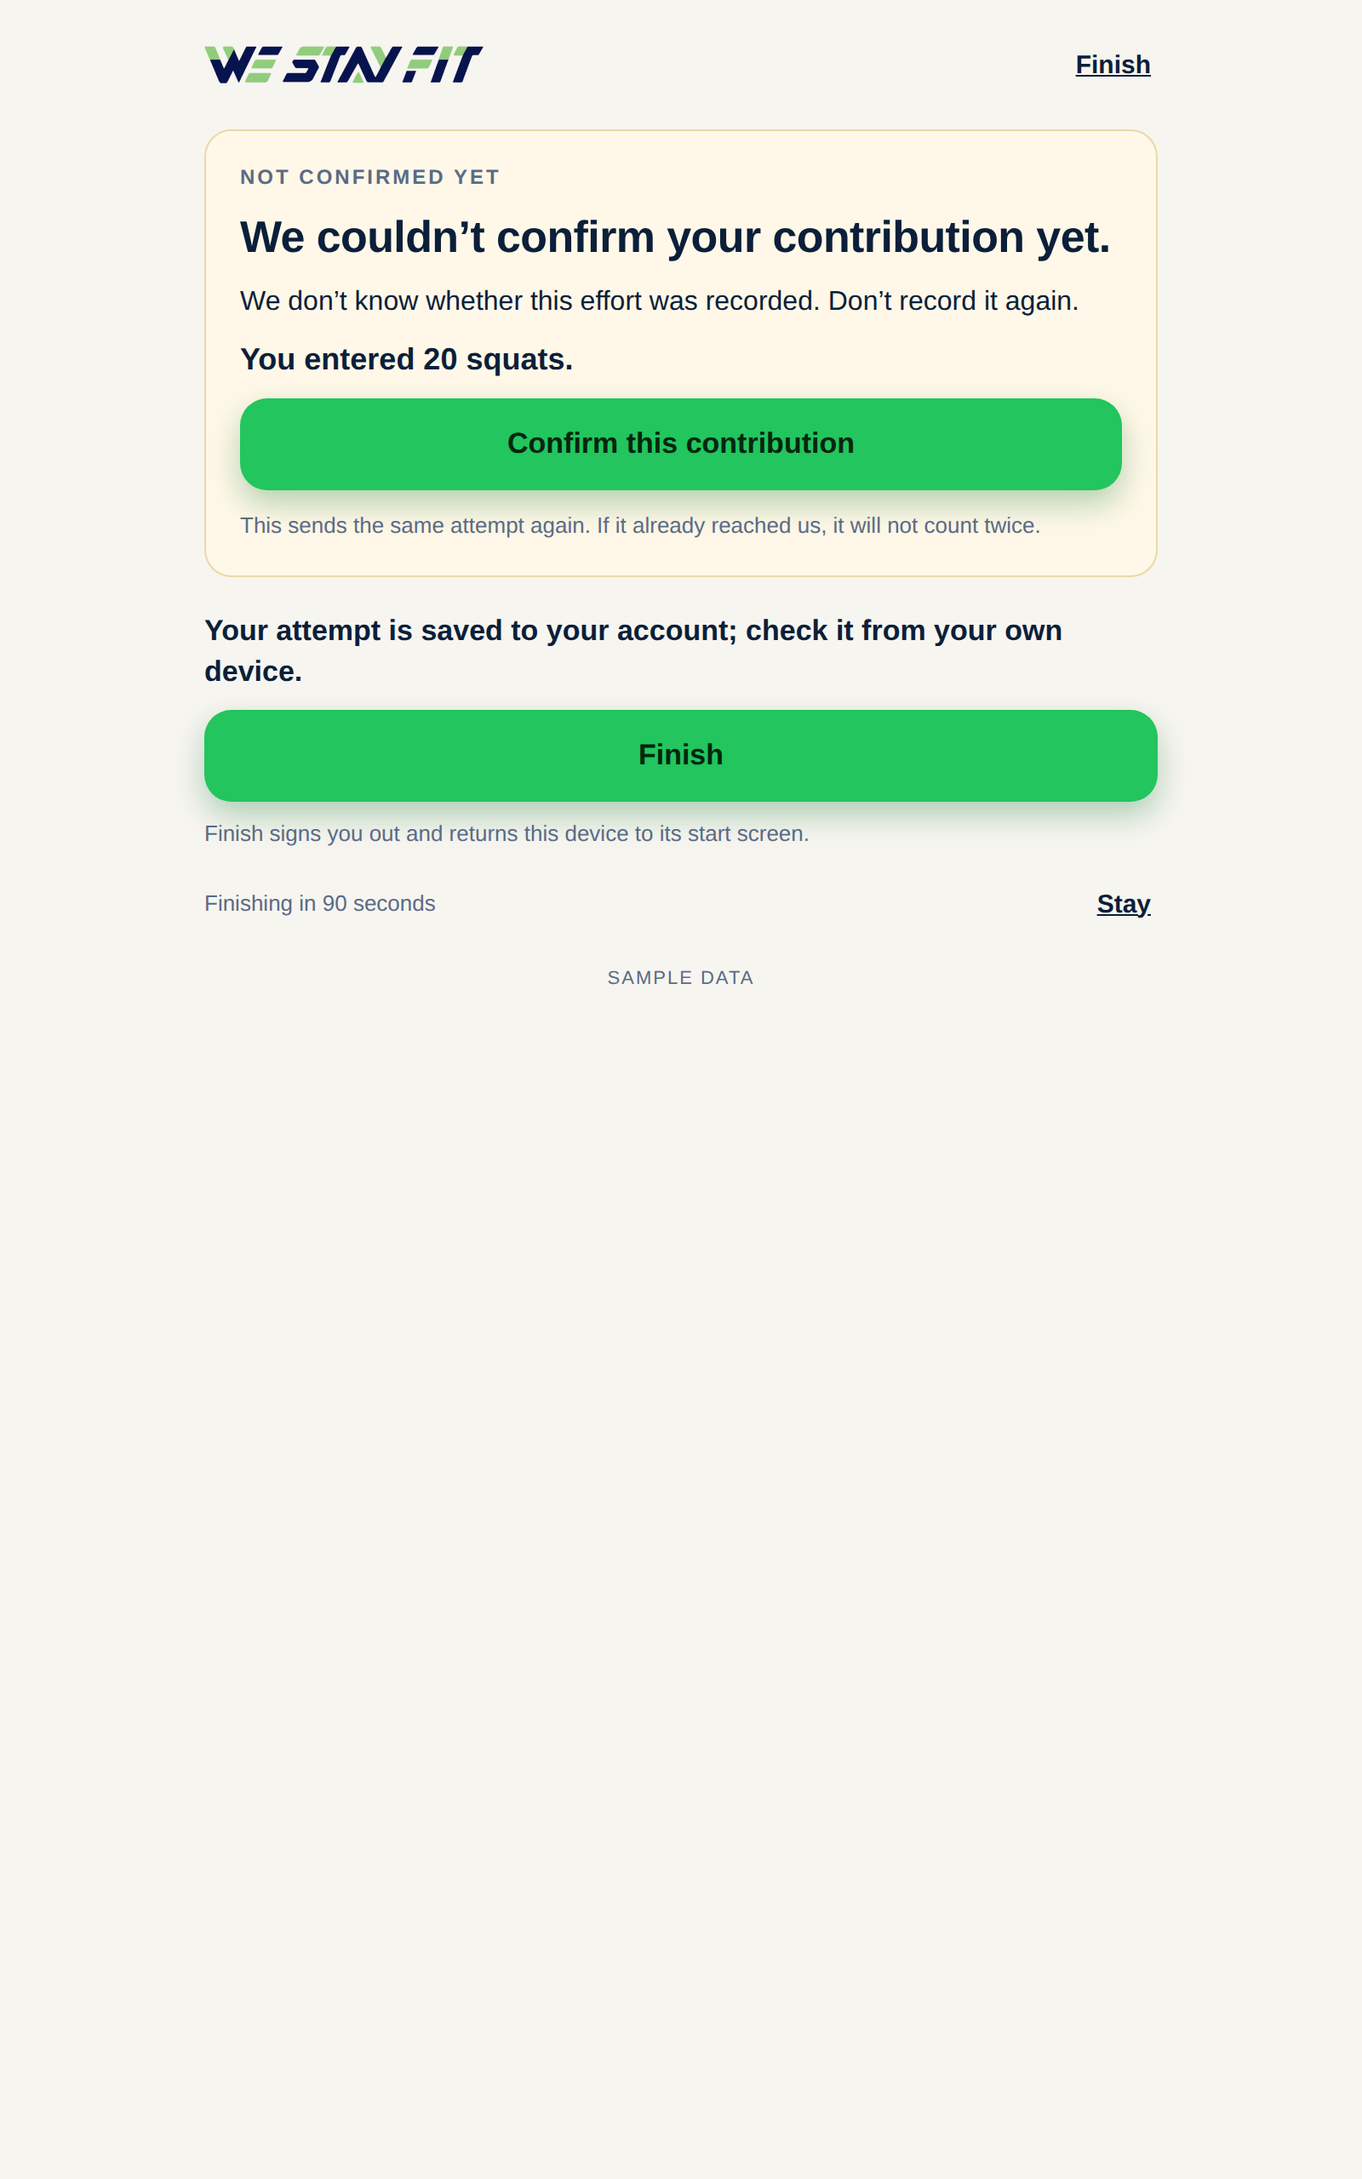
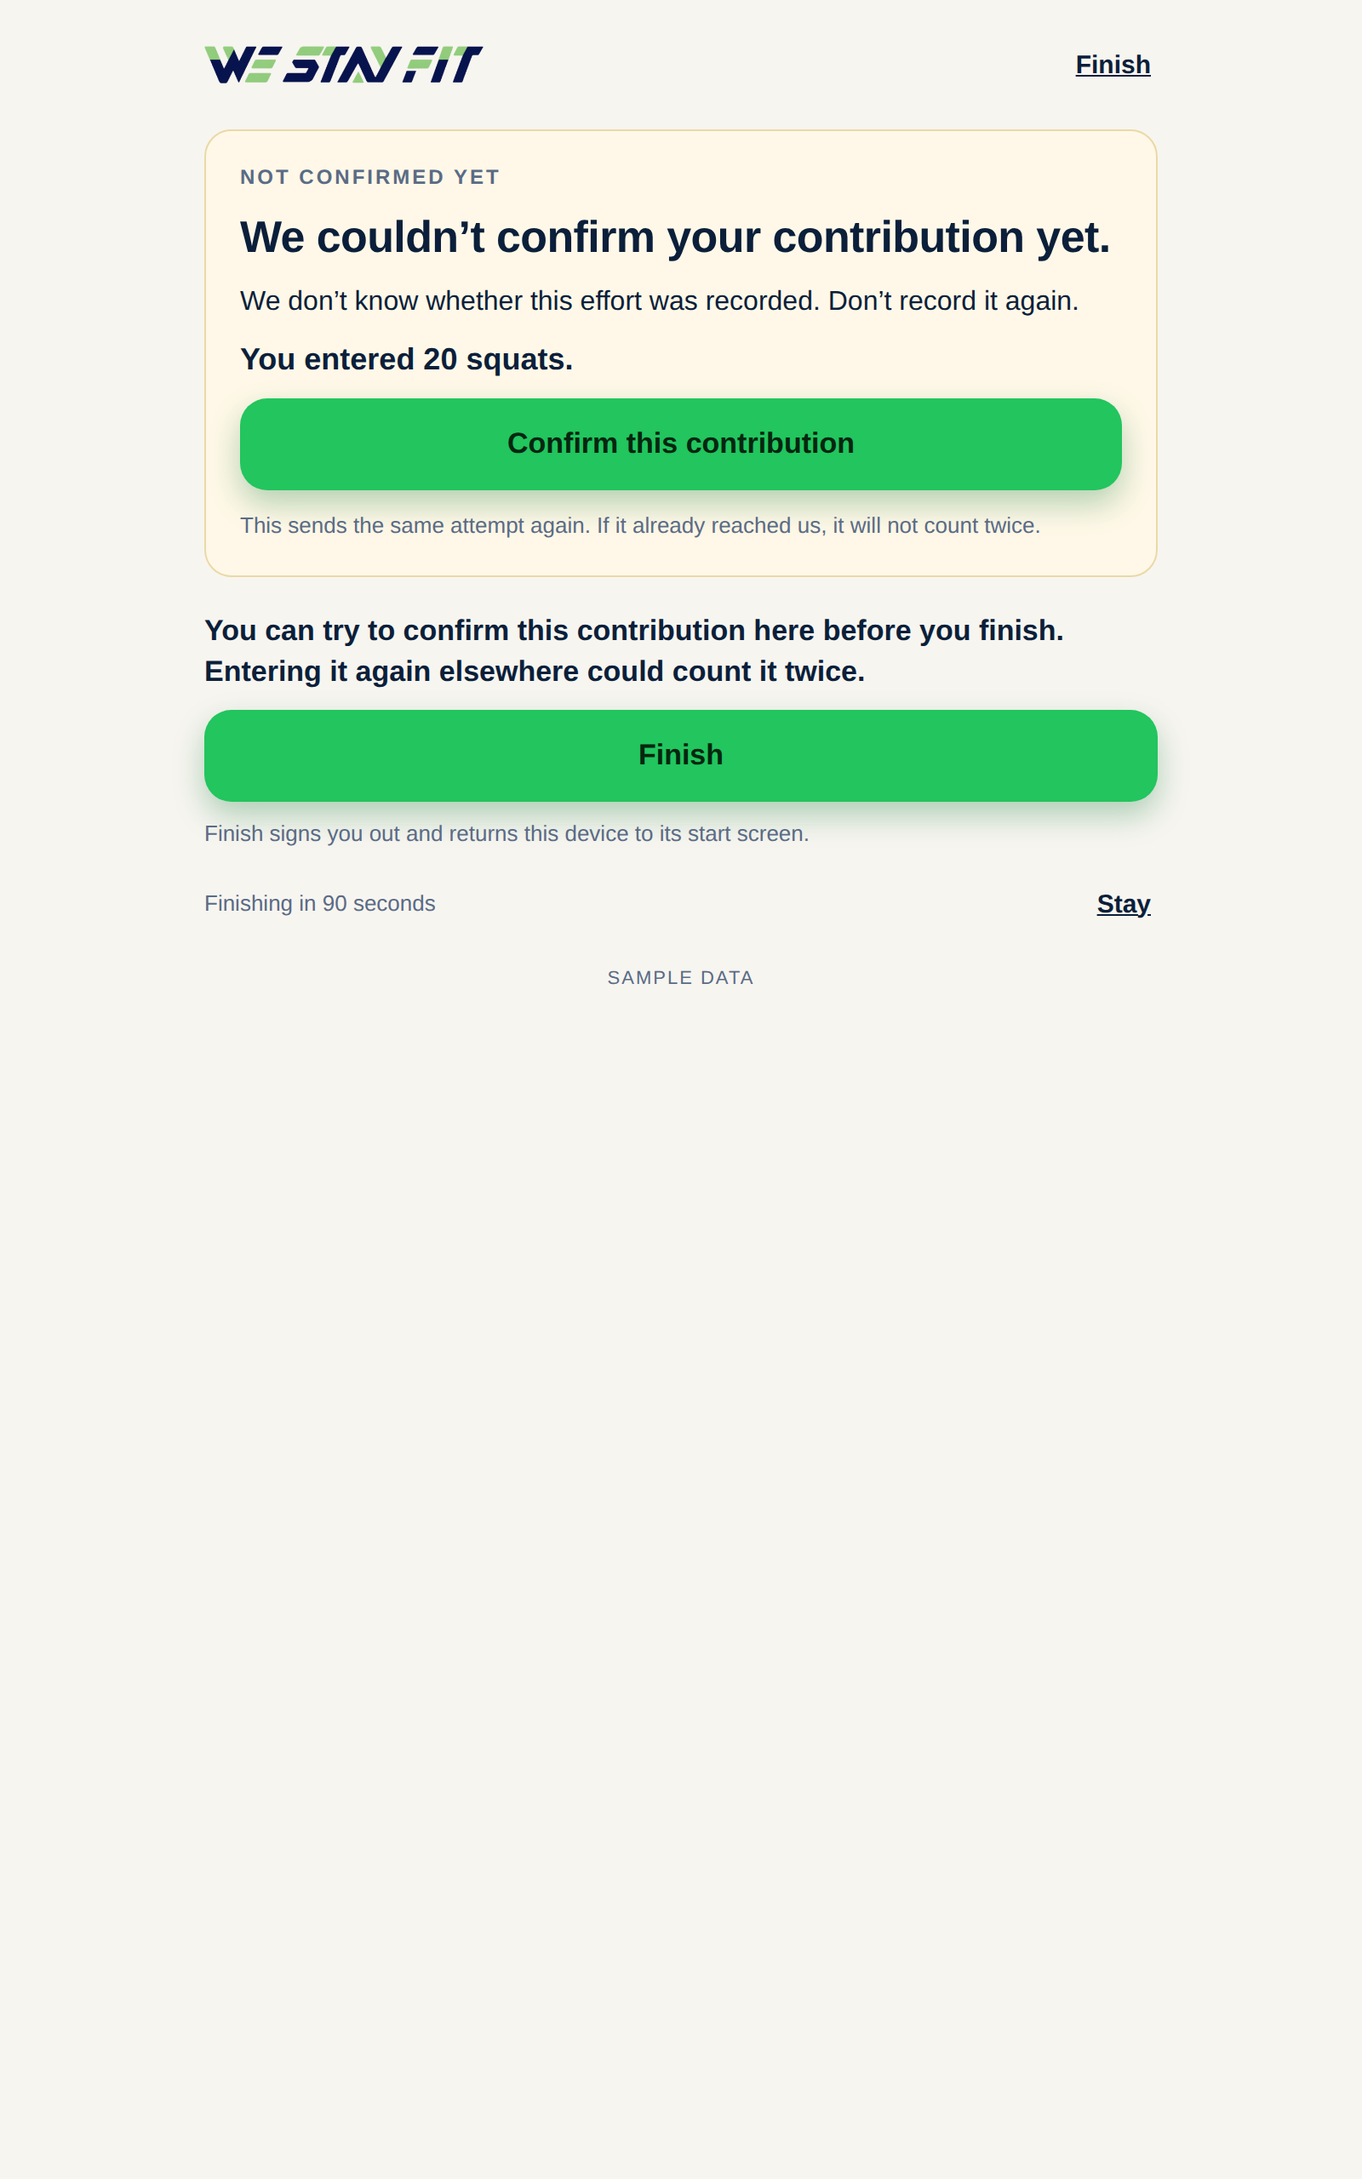
fix(westayfit): the unresolved kiosk notice stops promising portability it cannot keep
Copy-only follow-up to 50806fa, per the Director's review of W3's storage
finding (#427 5787211535, W3 5787080285).

The notice read "Your attempt is saved to your account; check it from your own
device." -- as though the attempt travels with the account. It does not. The
record that makes the SAME attempt replayable lives in localStorage on the
browser that made it (src/pendingContribution.ts), keyed to that uid; another
device signing into the same account finds no such record. A member's own credit
total is durable and readable elsewhere, but a total is not this attempt's
outcome: somebody who does not already know what it was before cannot infer
whether this one landed.

It now reads:

  You can try to confirm this contribution here before you finish. Entering it
  again elsewhere could count it twice.

It points at the only place the recovery actually exists -- this screen, before
Finish -- and names the real cost of the alternative.

COPY ONLY. No forced retry, no extra send, no portability promise, and no
backend, storage, auth or retention change. "Confirm this contribution" is still
offered, Finish is still available and reachable, and the account-scoped pending
record is still kept rather than cleared on the way out; the test that asserts it
survives is untouched. What changed is the literal expectation, one test
description that carried the same promise, and a new assertion that the notice
names no other device.
[…]

Changed region(s): [[0.1562, 0.2812, 0.7812, 0.3125]]

diff --git a/apps/westayfit/tests-e2e/sprint-w1b-kiosk-confinement.spec.ts b/apps/westayfit/tests-e2e/sprint-w1b-kiosk-confinement.spec.ts
@@ -347,6 +347,48 @@ for (const klass of [
   });
 }
 
+/**
+ * The unresolved notice is the longest string on any kiosk screen, and the
+ * short phone is the class where wrapping fails first. Captured there for that
+ * reason and no other -- the state itself is asserted in full at the tablet.
+ */
+test.describe('kiosk confinement · the unresolved notice at the short class', () => {
+  test.use({ viewport: SHORT_PHONE, deviceScaleFactor: 2 });
+
+  test('the notice wraps readably and Finish is still reachable under it', async ({ page }) => {
+    test.setTimeout(300_000);
+    const fx = await seedKiosk('g');
+    await walkUpToEntry(page, fx);
+    await page.getByTestId('wsf-contribute-entry').fill(String(ADDED));
+    await page.getByTestId('wsf-contribute-review').click();
+    await expect(page.getByTestId('wsf-contribute-review-screen')).toBeVisible();
+    await page.route('**/wsfContribute', (route: Route) => route.abort('failed'));
+    await page.getByTestId('wsf-contribute-submit').click();
+    await expect(page.getByTestId('wsf-contribute-pending')).toBeVisible({ timeout: 40_000 });
+
+    await page.getByTestId('wsf-kiosk-finish').scrollIntoViewIfNeeded();
+    await page.waitForTimeout(600);
+    await saveFrame(page, frame('kiosk-unresolved-short-phone-390x640.png'));
+
+    // Readable rather than clipped: the notice takes whole lines inside the
+    // screen's own width, and nothing overflows it sideways.
+    const box = await page.getByTestId('wsf-kiosk-unresolved-note').boundingBox();
+    expect(box, 'the notice has a box').not.toBeNull();
+    expect(box!.width).toBeLessThanOrEqual(SHORT_PHONE.width);
+    const overflow = await page.evaluate(
+      () => document.documentElement.scrollWidth > window.innerWidth + 1
+    );
+    expect(overflow, 'no sideways scroll at the short class').toBe(false);
+
+    // And the way out is still under it.
+    await expect(page.getByTestId('wsf-kiosk-finish')).toBeVisible();
+    await expect(page.getByTestId('wsf-kiosk-finish')).toBeEnabled();
+    await expectNoMemberNavigation(page);
+    await expectFinishUsable(page);
+    await page.unroute('**/wsfContribute');
+  });
+});
+
 test.describe('kiosk confinement · the states a correction could quietly break', () => {
   test.use({ viewport: TABLET, deviceScaleFactor: 2 });
 
@@ -368,7 +410,7 @@ test.describe('kiosk confinement · the states a correction could quietly break'
     await saveFrame(page, frame('kiosk-unresolved-tablet-800x1280.png'));
     // The state is unchanged by the correction.
     await expect(page.getByTestId('wsf-kiosk-unresolved-note')).toHaveText(
-      'Your attempt is saved to your account; check it from your own device.'
+      'You can try to confirm this contribution here before you finish. Entering it again elsewhere could count it twice.'
     );
     await expect(page.getByTestId('wsf-contribute-reconcile')).toHaveText(
       'Confirm this contribution'

diff --git a/apps/westayfit/src/kioskSession.ts b/apps/westayfit/src/kioskSession.ts
@@ -204,14 +204,27 @@ export type KioskFinishPlan = {
 };
 
 /**
- * The one sentence an unresolved attempt gets.
+ * What an unresolved attempt is told, and why this sentence and not the last one.
  *
- * It states two true things and no more: the attempt is attached to their
- * account, and the place to resolve it is a device that is theirs. It does
- * not say it was recorded — that is exactly the fact nobody has.
+ * IT USED TO PROMISE PORTABILITY IT CANNOT KEEP. The old wording — "Your
+ * attempt is saved to your account; check it from your own device." — reads as
+ * though the attempt travels with the account. It does not. The record that
+ * makes the SAME attempt replayable lives in `localStorage` on the browser that
+ * made it (src/pendingContribution.ts), keyed to that uid; a different device
+ * signing into the same account finds no such record. W3's storage-level probe
+ * confirmed it. A member's own credit total is durable and readable elsewhere,
+ * but a total is not this attempt's outcome: somebody who does not already know
+ * what it was before cannot infer whether this one landed.
+ *
+ * So the sentence now points at the only place the recovery actually exists —
+ * this screen, before Finish — and names the real cost of the alternative. It
+ * still does not say the attempt was recorded, because that is exactly the fact
+ * nobody has, and it does not force a retry: `Confirm this contribution` stays
+ * offered, Finish stays available, and the stored record is still kept rather
+ * than cleared on the way out.
  */
 export const KIOSK_UNRESOLVED_NOTICE =
-  'Your attempt is saved to your account; check it from your own device.';
+  'You can try to confirm this contribution here before you finish. Entering it again elsewhere could count it twice.';
 
 /**
  * WHAT FINISH IS ALLOWED TO ERASE.

diff --git a/apps/westayfit/tests/kiosk-session.test.ts b/apps/westayfit/tests/kiosk-session.test.ts
@@ -159,12 +159,21 @@ describe('what Finish is allowed to erase', () => {
     }
   });
 
-  it('KEEPS an unresolved attempt, and says where it is', () => {
+  it('KEEPS an unresolved attempt, and points at the recovery that actually exists', () => {
     const plan = kioskFinishPlan(GOAL, 'unresolved');
     expect(plan.clearPendingDraft).toBe(false);
-    expect(plan.notice).toBe('Your attempt is saved to your account; check it from your own device.');
+    expect(plan.notice).toBe(
+      'You can try to confirm this contribution here before you finish. Entering it again elsewhere could count it twice.'
+    );
     expect(plan.notice).toBe(KIOSK_UNRESOLVED_NOTICE);
     expect(plan.signOut).toBe(true);
+  });
+
+  it('promises no portability the stored record cannot keep', () => {
+    // The pending record lives in this browser's localStorage, keyed to the
+    // uid that made it; another device signing into the same account does not
+    // find it. The notice must not read as though the attempt travels.
+    expect(KIOSK_UNRESOLVED_NOTICE).not.toMatch(/your own device|another device|anywhere|saved to your account/i);
   });
 
   it('never claims the unresolved attempt was recorded', () => {

diff --git a/docs/design-target/review/kiosk-confinement-correction/README.md b/docs/design-target/review/kiosk-confinement-correction/README.md
@@ -16,9 +16,10 @@ The correction is this packet, assigned on
 | Baseline | `d0477cc047f4e71133fed0741935ebb99d46024d` (`claude/wsf-app-shell` head) |
 | Producer | `apps/westayfit/tests-e2e/sprint-w1b-kiosk-confinement.spec.ts` |
 | Write gate | `WSF_CAPTURE_FRAMES=1`, through `helpers/capture` |
-| Baseline run | **1 passed, 8 failed** — every confinement test fails, and the one that passes is *ordinary personal contribution keeps its tabs* |
-| Corrected run | **9 passed** |
-| Revision | `b24da91` → `HEAD` after the Director's source review [`5786956143`](https://github.com/idevinsimpson/goarrive/pull/427#issuecomment-5786956143): one shared kiosk predicate, and the two instruction lines raised to the control floor |
+| Baseline run | **1 passed, 9 failed** — every confinement test fails, and the one that passes is *ordinary personal contribution keeps its tabs* |
+| Corrected run | **10 passed** |
+| Revision | `b24da91` → `50806fa` after the source review [`5786956143`](https://github.com/idevinsimpson/goarrive/pull/427#issuecomment-5786956143): one shared kiosk predicate, and the two instruction lines raised to the control floor |
+| Revision | `50806fa` → `HEAD` after [`5787211535`](https://github.com/idevinsimpson/goarrive/pull/427#issuecomment-5787211535): the unresolved notice stops promising portability it cannot keep |
 | Classes | 800×1280 (the class a venue screen is drawn at) and 390×640 (the repository's short phone) |
 | Fixtures | `helpers/mobile`, isolated `demo-wsf-local` over loopback |
 
@@ -42,13 +43,14 @@ between a `before/` frame and its `after/` twin is the patch.
 
 | Frame | `before/` | `after/` | What changes |
 |---|---|---|---|
-| `kiosk-entry-tablet-800x1280.png` | `54aa63fe33030280` | `73f7d3111ca7fcfd` | Home · Community · MOVE · Progress · You along the bottom → gone |
+| `kiosk-entry-tablet-800x1280.png` | `54aa63fe33030280` | `8b628a1290c7b5e7` | Home · Community · MOVE · Progress · You along the bottom → gone |
 | `kiosk-entry-short-phone-390x640.png` | `f8ecc246b637fda7` | `bf2bfc15798197df` | the clearest pair: the bar and the raised MOVE circle cut off *How we count squats*; without them the screen simply ends |
 | `kiosk-receipt-tablet-800x1280.png` | `e53c7191e43e2164` | `a1a61673890c5caa` | the bar goes; the chrome `Finish`, `Stay` and both instruction lines become legible |
 | `kiosk-receipt-short-phone-390x640.png` | `8d9aebb914a333dd` | `1bfbab29a5adc543` | the same, at the short class |
-| `kiosk-unresolved-tablet-800x1280.png` | `2aa9ad903d76af19` | `2943449d8b5c6e0d` | the bar goes; every word of the unknown-outcome screen is unchanged |
+| `kiosk-unresolved-tablet-800x1280.png` | `2aa9ad903d76af19` | `3b47983a0089acf6` | the bar goes; the notice is rewritten (below) and the rest of the screen is unchanged |
+| `kiosk-unresolved-short-phone-390x640.png` | *(no baseline — added with the rewritten notice)* | `72f70c888a017a8c` | the longest string on any kiosk screen, at the class where wrapping fails first |
 | `kiosk-signout-failed-tablet-800x1280.png` | `efdc17aa0b240be4` | `ed6629eb6ed84909` | the bar goes; the warning and both instruction lines become readable |
-| `ordinary-contribution-keeps-its-tabs-tablet-800x1280.png` | `eb010b345f646278` | `9fedcdcb32cce6b3` | **nothing that matters** — the same route without `?kiosk=1` keeps all four tabs and MOVE |
+| `ordinary-contribution-keeps-its-tabs-tablet-800x1280.png` | `eb010b345f646278` | `d367506ab4ef251b` | **nothing that matters** — the same route without `?kiosk=1` keeps all four tabs and MOVE |
 
 **Three of the baseline frames are byte-identical to frames already delivered on
 Board 11** — `kiosk-receipt-tablet` to that package's `kiosk-receipt-stay`,
@@ -148,6 +150,41 @@ working `Finish` — then drives `?kiosk=0&kiosk=no` and asserts that an
 unrecognised duplicate is an ordinary contribution that keeps its tabs. Failing
 closed must not mean treating every duplicate as a kiosk.
 
+## The unresolved notice stops promising portability
+
+The notice used to read *"Your attempt is saved to your account; check it from
+your own device."* It reads as though the attempt travels with the account. It
+does not: the record that makes the SAME attempt replayable is in
+`localStorage` on the browser that made it (`src/pendingContribution.ts`), keyed
+to that uid, and another device signing into the same account finds no such
+record — W3's storage-level probe (`5787080285`) confirmed it. A member's own
+credit total is durable and readable elsewhere, but a total is not this
+attempt's outcome: somebody who does not already know what it was before cannot
+infer whether this one landed.
+
+It now reads:
+
+> You can try to confirm this contribution here before you finish. Entering it
+> again elsewhere could count it twice.
+
+It points at the only place the recovery actually exists — this screen, before
+Finish — and names the real cost of the alternative. **Copy only.** No forced
+retry, no extra send, no portability promise, and no backend, storage, auth or
+retention change: `Confirm this contribution` is still offered, `Finish` is
+still available, and the account-scoped pending record is still kept rather
+than cleared on the way out. The unit test that asserts the record survives is
+untouched; what changed is the literal expectation and one test description,
+plus a new assertion that the notice names no other device.
+
+**Wrapping, measured at the class where it fails first.** The sentence is the
+longest string on any kiosk screen, so it is captured at 390×640 as well: it
+takes three whole lines inside the screen's width, there is no sideways scroll,
+and `Finish` sits directly under it, visible and enabled.
+
+**One reference deliberately left alone.** `src/ui/designTarget/RoomScreenTargets.tsx`
+draws the old sentence into the batch-e *target* artwork. That is a frozen
+design reference, not the product, and this packet does not repaint targets.
+
 ## Reported, not fixed
 
 - **The countdown does not cover the closed-goal, not-found or load-error
@@ -169,18 +206,25 @@ still reachable that way. What the correction removes is every route the product
 offers out of a kiosk session; typing an address is not one of them, and no
 web page can make it one.
 
-## What the revision re-captured
+## What each revision re-captured
 
-Five `after/` frames were re-taken; the `before/` set is byte-identical to its
-first capture, checked before and after every run.
+The `before/` set is byte-identical to its first capture, checked before and
+after every run.
 
-- the three **navy** frames (`kiosk-receipt` ×2, `kiosk-signout-failed`) changed
-  because the two instruction lines changed colour — that is the correction;
-- the two **light** frames (`kiosk-entry-tablet`,
-  `ordinary-contribution-keeps-its-tabs`) changed by **16 rows** each, at
-  y 338–353, which is the anchor's `Confirmed HH:MM` line. Those screens carry a
-  clock, so their bytes differ run to run; nothing else in them moved. Measured
-  row by row rather than asserted.
+**`b24da91` → `50806fa`** — five `after/` frames: the three **navy** ones
+(`kiosk-receipt` ×2, `kiosk-signout-failed`) because the two instruction lines
+changed colour, which is the correction; and two **light** ones
+(`kiosk-entry-tablet`, `ordinary-contribution-keeps-its-tabs`) by **16 rows**
+each at y 338–353, which is the anchor's `Confirmed HH:MM` line.
+
+**`50806fa` → `HEAD`** — the unresolved frame, because its notice is rewritten;
+one new frame, the same state at the short class; and the same two light frames,
+again by **17 rows** each at y 338–354 and y 418–434, the same clock line. The
+navy receipt and sign-out frames came back **byte-identical** this time, which
+is what confirms the earlier three changed for the colour and nothing else.
+
+Those screens carry a clock, so their bytes differ run to run and nothing else
+in them moved. Measured row by row rather than asserted.
 
 ## Reproducing
 
@@ -204,9 +248,10 @@ assertions then fail, by design, and that failure is the defect.
 ## Regression run alongside this change
 
 `ui-app-shell` 3 · `ui-kiosk` 3 · `ui-contribute-short-phone` 7 — **13 passed**,
-all unmodified. Unit suite: 46 files, **797 tests**, passed — the two added are
-the focused kiosk-flag cases in `tests/kiosk-session.test.ts`, the only existing
-test file this packet touches and the one the Director's review named.
+all unmodified. Unit suite: 46 files, **798 tests**, passed — the three added are the focused
+kiosk-flag cases and the notice's no-portability assertion in
+`tests/kiosk-session.test.ts`, the only existing test file this packet touches
+and the one the reviews named.
 `ts:check` passes.
 
 ## Scope
